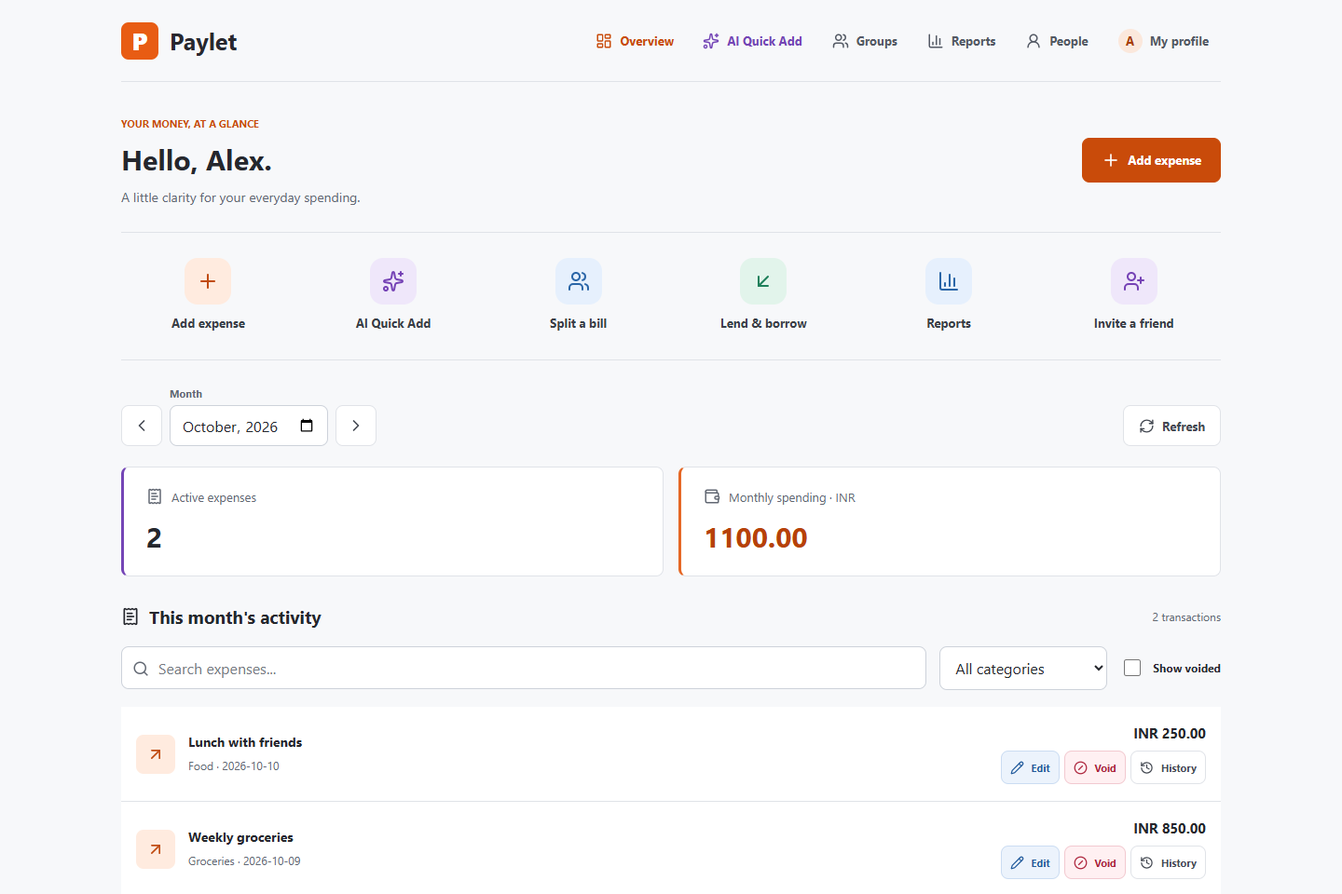
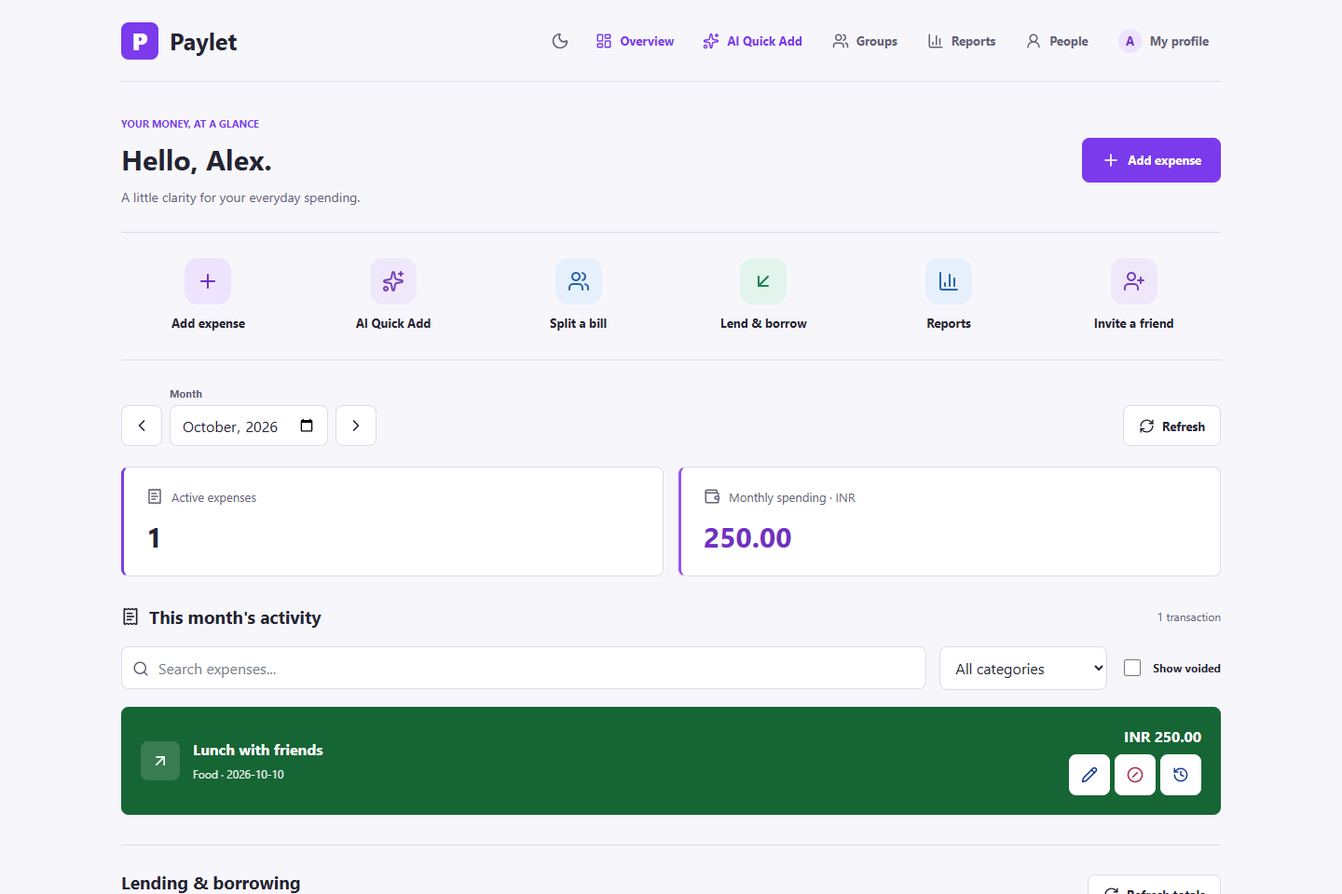
Redesign landing page with interactive split demo and deeper dark mode

diff --git a/frontend/src/components/landing-redesign.css b/frontend/src/components/landing-redesign.css
@@ -1,0 +1,149 @@
+.landing-page { --landing-accent: #b894ff; --landing-band: #18171e; --landing-card: #211f29; --landing-muted: #b9b5c7; --landing-border: #37323f; }
+.landing-page .landing-header { background: #101012f5; backdrop-filter: blur(16px); }
+.landing-page .landing-header-inner { min-height: 80px; }
+.landing-page .landing-nav a, .landing-page .landing-footer nav a { text-underline-offset: 7px; transition: color 180ms ease; }
+.landing-page .landing-nav a:hover, .landing-page .landing-footer nav a:hover { text-decoration: underline; color: var(--landing-accent); }
+.landing-page .landing-hero { border-bottom: 1px solid #6d4698; }
+.landing-page .landing-hero::before { background: #09080dcc; box-shadow: inset 0 -70px 90px #09080d88; }
+.landing-page .landing-hero h1 { font-weight: 800; }
+.landing-page .landing-hero .landing-hook { font-weight: 600; }
+.landing-page .landing-hero-copy > .landing-eyebrow { padding: 8px 0; border-bottom: 1px solid #b894ff66; }
+.landing-page .landing-community-count { color: #f2eaff; }
+.landing-page .landing-band, .landing-page .landing-showcase, .landing-page .landing-privacy, .landing-page .landing-final-cta { border-bottom: 1px solid var(--landing-border); scroll-margin-top: 100px; }
+.landing-page .landing-feature-band { background: #101012; }
+.landing-page .landing-about { padding-block: 32px 80px; }
+.landing-page .landing-demo-heading { display: flex; justify-content: space-between; flex-wrap: wrap; gap: 12px; color: var(--landing-muted); font-size: 12px; margin-bottom: 20px; }
+.landing-demo-heading > span:first-child { display: inline-flex; align-items: center; gap: 8px; color: var(--landing-accent); font-weight: 600; }
+.landing-live-dot { width: 6px; height: 6px; background: #79d5a4; border-radius: 50%; }
+.landing-money-grid { display: grid; grid-template-columns: repeat(3, minmax(0, 1fr)); gap: 20px; margin-bottom: 80px; }
+.landing-money-card { min-width: 0; border: 1px solid var(--landing-border); border-radius: 8px; background: var(--landing-card); padding: 24px; display: flex; flex-direction: column; color: #f7f5fb; }
+.landing-money-label { display: flex; align-items: center; gap: 10px; font-size: 13px; color: #cec3e5; }
+.landing-money-label > svg:last-child:not(:first-child) { margin-left: auto; }
+.landing-money-card h3 { font-size: 19px; margin: 18px 0 0; }
+.landing-demo-amount { font-size: 32px; font-weight: 750; margin: 20px 0; line-height: 1.3; }
+.landing-demo-amount > span { display: block; font-size: 12px; font-weight: 400; margin-top: 6px; color: #b9b5c7; }
+.landing-demo-bars { display: flex; align-items: flex-end; gap: 8px; height: 54px; margin-bottom: 20px; }
+.landing-demo-bars > span { flex: 1; background: #9c74ef; border-radius: 3px 3px 0 0; }
+.landing-demo-bars > span:nth-child(3n) { background: #648fe7; }
+.landing-money-foot { display: flex; align-items: center; gap: 7px; margin-top: auto; padding-top: 16px; border-top: 1px solid #ffffff24; font-size: 12px; color: #c4b8da; line-height: 1.6; }
+.landing-money-expense { background: #166534; border-color: #31894f; }
+.landing-money-expense :is(.landing-money-label, .landing-demo-amount > span, .landing-money-foot) { color: #e0f8e7; }
+.landing-demo-category { font-size: 10px; font-weight: 650; color: #c4eed2; margin-top: 28px; }
+.landing-money-expense h3 { margin-top: 8px; }
+.landing-demo-people { display: flex; margin-bottom: 20px; padding-left: 4px; }
+.landing-demo-people > span { width: 30px; height: 30px; display: grid; place-items: center; background: #4f3b72; color: #efe5ff; border: 2px solid var(--landing-card); border-radius: 50%; margin-left: -4px; font-size: 11px; }
+.landing-demo-people > span:nth-child(even) { background: #294b75; color: #d1e5ff; }
+.landing-page .landing-section-heading { max-width: 740px; margin-inline: auto; text-align: center; }
+.landing-page .landing-section-heading h2, .landing-page .landing-privacy h2, .landing-page .landing-faq h2, .landing-page .landing-final-cta h2 { font-size: 34px; font-weight: 650; }
+.landing-page .landing-features { gap: 24px; }
+.landing-page .landing-features article { padding: 30px; background: var(--landing-card); border: 1px solid var(--landing-border); }
+.landing-page .landing-features h3 { color: inherit; }
+.landing-page .landing-feature-number { font-size: 14px; color: var(--landing-muted); }
+.landing-page .landing-showcase { padding-block: 80px; background: var(--landing-band); border-top: 0; }
+.landing-page .landing-showcase .landing-section-heading { margin-bottom: 40px; }
+.landing-page .landing-product { max-width: 1040px; margin-inline: auto; border: 1px solid var(--landing-border); border-radius: 8px; box-shadow: 0 20px 50px #0003; }
+.landing-page .landing-privacy { padding-block: 64px; background: #121d1a; border-color: #2d463b; }
+.landing-page .landing-privacy-icon { color: #80d8a6; }
+.landing-page .landing-privacy .landing-eyebrow { color: #80d8a6; }
+.landing-page .landing-community-band { background: #101012; }
+.landing-page .testimonials-section { color: #f7f5fb; padding-block: 80px; }
+.landing-page .testimonials-heading p { color: var(--landing-muted); }
+.landing-page .testimonial-card { background: var(--landing-card); border-color: var(--landing-border); }
+.landing-page .landing-faq-band { background: var(--landing-band); }
+.landing-page .landing-faq { padding-block: 80px; }
+.landing-page .landing-questions details { border: 1px solid var(--landing-border); background: #211f29; border-radius: 8px; overflow: hidden; margin-bottom: 12px; }
+.landing-page .landing-final-cta { padding-block: 72px; background: #1d152b; }
+.landing-cta-icon { color: #b894ff; display: block; margin: 0 auto 20px; }
+.landing-page .landing-footer { border-top: 0; }
+.landing-page .button, .landing-page .landing-features article, .landing-money-card, .landing-page .testimonial-card { transition: transform 220ms ease, border-color 220ms ease, box-shadow 220ms ease, background-color 220ms ease; }
+.landing-page .button:active { transform: translateY(1px); }
+.landing-page .landing-questions summary svg { transition: transform 220ms ease; flex-shrink: 0; }
+.landing-page .theme-toggle { flex: 0 0 40px; }
+@media (hover: hover) {
+  .landing-page .landing-features article:hover, .landing-money-card:hover, .landing-page .testimonial-card:hover { transform: translateY(-4px); border-color: #a47aeb; box-shadow: 0 0 0 1px #a47aeb33, 0 12px 32px #8b5cf62b; }
+  .landing-page .button:hover:not(:disabled) { transform: translateY(-2px); box-shadow: 0 4px 20px #8b5cf64a; }
+  .landing-page .button-primary:hover:not(:disabled) { background: #6d28d9; box-shadow: 0 0 22px #a478ff66; }
+}
+.landing-entered { animation: landing-entrance 550ms ease both; }
+.landing-page .landing-interactive-hero::before { display: none; }
+.landing-page .landing-interactive-hero { height: auto; min-height: 0; background: #080808; }
+.landing-page .landing-interactive-hero .landing-hero-copy { height: auto; padding-block: 32px; }
+.landing-page .landing-interactive-hero h1 { font-size: 64px; margin-block: 12px; }
+.landing-page .landing-interactive-hero .landing-hook { font-size: 28px; margin-bottom: 12px; }
+.landing-page .landing-interactive-hero .landing-hook br { display: none; }
+.landing-page .landing-interactive-hero .landing-hero-description { margin-bottom: 18px; font-size: 15px; }
+.landing-page .landing-interactive-hero .landing-hero-benefits { margin-top: 14px; }
+.hero-split { width: min(620px, 100%); text-align: left; border: 1px solid #54416e; border-radius: 8px; padding: 20px; margin-top: 20px; background: #0d0d0d; box-shadow: 0 0 28px #8b5cf61c; color: #f3f1fa; }
+.hero-split-heading { display: flex; align-items: center; justify-content: space-between; gap: 12px; font-size: 13px; margin-bottom: 16px; }
+.hero-split-heading strong { display: inline-flex; align-items: center; gap: 8px; }
+.hero-split-heading > span { font-size: 11px; color: #b9b5c7; }
+.hero-split-fields { display: grid; grid-template-columns: minmax(0, 1fr) minmax(0, 1fr) minmax(0, 1.1fr); align-items: end; gap: 16px; }
+.hero-split-fields label { display: block; margin: 0; font-size: 11px; font-weight: 500; color: #cbc5d6; line-height: 1.5; }
+.hero-split-fields label > span { color: #b894ff; margin-left: 4px; }
+.hero-split-fields input { width: 100%; min-width: 0; height: 42px; margin-top: 6px; border: 1px solid #47414e; border-radius: 6px; background: #171717; color: #fff; padding: 8px 10px; font-size: 16px; }
+.hero-split-stepper { display: grid; grid-template-columns: 38px minmax(0, 1fr) 38px; align-items: center; height: 42px; margin-top: 6px; border: 1px solid #47414e; border-radius: 6px; background: #171717; }
+.hero-split-stepper button { width: 36px; height: 40px; display: grid; place-items: center; background: transparent; border: 0; color: #c6a2ff; padding: 0; }
+.hero-split-stepper button:disabled { opacity: .35; cursor: not-allowed; }
+.hero-split-stepper output { text-align: center; font-size: 16px; }
+.hero-split-result { min-height: 65px; display: flex; flex-direction: column; justify-content: center; border-left: 1px solid #38313e; padding-left: 16px; }
+.hero-split-result > span { font-size: 11px; color: #b9b5c7; }
+.hero-split-result strong { font-size: 23px; color: #95e4bd; overflow-wrap: anywhere; margin-top: 6px; }
+.hero-split-note { min-height: 18px; line-height: 1.5; font-size: 11px; margin: 12px 0 0; color: #b9b5c7; }
+@media (max-width: 600px) {
+  .hero-split { padding: 14px; margin-top: 12px; }
+  .hero-split-heading { margin-bottom: 10px; gap: 8px; }
+  .hero-split-heading > span { font-size: 10px; }
+  .hero-split-fields { grid-template-columns: minmax(0, 1fr) minmax(0, 1fr); gap: 10px; }
+  .hero-split-result { grid-column: 1 / -1; flex-direction: row; align-items: center; justify-content: space-between; min-height: 36px; padding: 8px 0 0; border-left: 0; border-top: 1px solid #38313e; }
+  .hero-split-result strong { margin-top: 0; font-size: 24px; }
+  .hero-split-note { margin-top: 6px; }
+  .landing-page .landing-interactive-hero .landing-hero-copy { padding-block: 22px; }
+  .landing-page .landing-interactive-hero h1 { font-size: 48px; }
+  .landing-page .landing-interactive-hero .landing-hook { font-size: 23px; }
+  .landing-page .landing-interactive-hero .landing-hero-benefits { display: none; }
+}
+@media (max-height: 700px) {
+  .landing-page .landing-interactive-hero .landing-hero-copy { padding-block: 12px; }
+  .landing-page .landing-interactive-hero h1 { font-size: 40px; margin-block: 6px; }
+  .landing-page .landing-interactive-hero .landing-hook { font-size: 20px; margin-bottom: 10px; }
+  .landing-page .landing-interactive-hero .landing-hero-description { display: none; }
+  .landing-page .landing-interactive-hero .landing-hero-actions .button { min-height: 40px; padding-block: 8px; font-size: 14px; }
+  .landing-page .landing-interactive-hero .hero-split { margin-top: 8px; padding: 12px; }
+}
+@keyframes landing-entrance { from { opacity: .5; transform: translateY(12px); } to { opacity: 1; transform: none; } }
+[data-theme="light"] .landing-page { --landing-card: #fff; --landing-band: #eeeff6; --landing-accent: #7c3aed; }
+[data-theme="light"] .landing-page .landing-header { background: #fffffff5; }
+[data-theme="light"] .landing-page .landing-feature-band, [data-theme="light"] .landing-page .landing-community-band { background: #f9f9fc; }
+[data-theme="light"] .landing-page .landing-money-card { color: #242332; }
+[data-theme="light"] .landing-page .landing-money-card:not(.landing-money-expense) :is(.landing-money-label, .landing-demo-amount > span, .landing-money-foot) { color: #636176; }
+[data-theme="light"] .landing-page .landing-money-card:not(.landing-money-expense) .landing-money-foot { border-color: #dadbe7; }
+[data-theme="light"] .landing-page .landing-money-expense { color: #fff; }
+[data-theme="light"] .landing-page .landing-privacy { background: #e9f5ee; border-color: #c6dfcf; }
+[data-theme="light"] .landing-page .landing-privacy :is(.landing-eyebrow, .landing-privacy-icon) { color: #22643e; }
+[data-theme="light"] .landing-page .testimonials-section { color: #242332; }
+[data-theme="light"] .landing-page .landing-questions details { background: #fff; color: #242332; border-color: #dadbe7; }
+[data-theme="light"] .landing-page .landing-questions summary:hover { background: #f4f0fa; }
+[data-theme="light"] .landing-page .landing-final-cta { background: #eee6fa; }
+[data-theme="dark"] .landing-page { background: #000; --landing-card: #0d0d0d; --landing-band: #080808; --landing-border: #2b2b2b; }
+[data-theme="dark"] .landing-page .landing-header { background: #000000f5; }
+[data-theme="dark"] .landing-page :is(.landing-feature-band, .landing-community-band, .landing-footer, .landing-hero) { background: #000; }
+[data-theme="dark"] .landing-page .landing-hero::before { background: #000c; box-shadow: inset 0 -70px 90px #0009; }
+[data-theme="dark"] .landing-page .landing-questions details { background: var(--landing-card); }
+[data-theme="dark"] .landing-page .landing-questions summary:hover { background: #181818; }
+[data-theme="dark"] .landing-page .landing-privacy { background: #040907; }
+[data-theme="dark"] .landing-page .landing-final-cta { background: #09060e; }
+@media (max-width: 900px) { .landing-money-grid { gap: 12px; } .landing-money-card { padding: 18px; } .landing-demo-amount { font-size: 26px; } }
+@media (max-width: 760px) {
+  .landing-money-grid { grid-template-columns: minmax(0, 1fr); margin-bottom: 48px; gap: 16px; }
+  .landing-money-card { padding: 24px; }
+  .landing-page .landing-about { padding-block: 24px 48px; }
+  .landing-page :is(.landing-showcase, .testimonials-section, .landing-faq, .landing-final-cta) { padding-block: 48px; }
+  .landing-page .landing-privacy { padding-block: 40px; }
+  .landing-page .landing-section-heading h2, .landing-page .landing-privacy h2, .landing-page .landing-faq h2, .landing-page .landing-final-cta h2 { font-size: 27px; }
+  .landing-page .landing-band { scroll-margin-top: 148px; }
+  .landing-page .landing-demo-heading { font-size: 11px; }
+}
+@media (prefers-reduced-motion: reduce) {
+  .landing-page *, .landing-page *::before, .landing-page *::after { animation: none !important; transition: none !important; scroll-behavior: auto !important; }
+  .landing-page .button:hover, .landing-page article:hover { transform: none !important; }
+}

diff --git a/frontend/src/components/LandingPage.tsx b/frontend/src/components/LandingPage.tsx
@@ -1,9 +1,11 @@
-import { ArrowDownLeft, ArrowRight, BarChart3, Check, ChevronRight, LayoutDashboard, LogIn, LogOut, Plus, ReceiptText, ShieldCheck, Users, Wallet } from "lucide-react";
+import { useEffect, useRef } from "react";
+import { ArrowDownLeft, ArrowRight, BarChart3, Check, ChevronRight, LayoutDashboard, LogIn, LogOut, Plus, ReceiptText, ShieldCheck, Users, Wallet, TrendingUp, CheckCircle2 } from "lucide-react";
 import type { User } from "../lib/api";
 import "./landing.css";
 import ThemeToggle from "./ThemeToggle";
 import Testimonials from "./Testimonials";
 import CommunityCount from "./CommunityCount";
+import HeroSplitDemo from "./HeroSplitDemo";
 
 type Props = {
   user: User | null;
@@ -16,7 +18,18 @@ type Props = {
 };
 
 export default function LandingPage({ user, checking, sessionError, onLogin, onRegister, onDashboard, onLogout }: Props) {
-  return <div className="landing-page">
+  const pageRef = useRef<HTMLDivElement>(null);
+  useEffect(() => {
+    if (!window.IntersectionObserver) return;
+    const observer = new IntersectionObserver((entries) => {
+      for (const entry of entries) if (entry.isIntersecting) {
+        entry.target.classList.add("landing-entered"); observer.unobserve(entry.target);
+      }
+    }, { threshold: 0.08 });
+    pageRef.current?.querySelectorAll(".landing-band, .landing-showcase, .landing-privacy, .landing-final-cta").forEach((section) => observer.observe(section));
+    return () => observer.disconnect();
+  }, []);
+  return <div className="landing-page" ref={pageRef}>
     <a className="landing-skip" href="#landing-main">Skip to content</a>
     <header className="landing-header"><div className="landing-header-inner landing-width">
       <a className="brand" href="/" aria-label="Paylet home"><span className="brand-mark">P</span><span>Paylet</span></a>
@@ -28,37 +41,43 @@ export default function LandingPage({ user, checking, sessionError, onLogin, onR
     </div></header>
     {sessionError && <div className="landing-width landing-session" role="alert">{sessionError} <button className="button button-outline" onClick={() => window.location.reload()}>Retry</button></div>}
     <main id="landing-main">
-      <section className="landing-hero" aria-labelledby="landing-title">
-        <img className="landing-hero-image" src="/paylet-cinematic-hero.png" width="1672" height="941" alt="" fetchPriority="high" />
+      <section className="landing-hero landing-interactive-hero" aria-labelledby="landing-title">
         <div className="landing-hero-copy landing-width">
           <span className="landing-eyebrow">YOUR MONEY. YOUR PEOPLE. YOUR LIFE.</span>
           <h1 id="landing-title">Paylet<span>.</span></h1>
-          <p className="landing-hook">Less money stress.<br />More life.</p>
+          <p className="landing-hook">Less money stress. More life.</p>
           <p className="landing-hero-description">Track your spending. Split the bill.<br className="landing-desktop-break" /> Keep money between friends clear.</p>
           <div className="landing-hero-actions"><button className="button button-primary" disabled={checking} onClick={user ? onDashboard : onRegister}>{user ? "Open dashboard" : "Get started"}<ArrowRight size={18} /></button><a href="#about">Explore Paylet <ChevronRight size={17} /></a></div>
           <div className="landing-hero-benefits"><span><Check size={15} /> No bank connection</span><span><Check size={15} /> Your records stay private</span></div>
           <CommunityCount />
+          <HeroSplitDemo />
         </div>
       </section>
-      <section id="about" className="landing-about landing-width">
+      <div className="landing-band landing-feature-band" id="about"><section className="landing-about landing-width">
+        <div className="landing-demo-heading"><span><span className="landing-live-dot" /> A little clarity. At a glance.</span><span>Illustrative examples</span></div>
+        <div className="landing-money-grid" aria-label="Examples of Paylet money records">
+          <article className="landing-money-card landing-money-total"><div className="landing-money-label"><Wallet size={20} /><span>Your month, together</span></div><p className="landing-demo-amount">INR 4,850<span>Recorded spending</span></p><div className="landing-demo-bars" aria-hidden="true">{[32, 52, 38, 72, 58, 90, 65, 80, 46, 96, 68, 84].map((height, index) => <span key={index} style={{ height: `${height}%` }} />)}</div><div className="landing-money-foot"><BarChart3 size={15} /> Everyday expenses. One clear picture.</div></article>
+          <article className="landing-money-card landing-money-expense"><div className="landing-money-label"><ReceiptText size={20} /><span>Every little expense</span><CheckCircle2 size={18} /></div><span className="landing-demo-category">FOOD & FRIENDS</span><h3>Lunch after lectures</h3><p className="landing-demo-amount">INR 250<span>Personal expense</span></p><div className="landing-money-foot"><Check size={16} /> Recorded. Remembered. Sorted.</div></article>
+          <article className="landing-money-card landing-money-group"><div className="landing-money-label"><Users size={20} /><span>Better, together</span></div><h3>The weekend plan</h3><p className="landing-demo-amount">INR 1,200<span>Shared between 4 friends</span></p><div className="landing-demo-people" aria-hidden="true"><span>A</span><span>R</span><span>S</span><span>M</span></div><div className="landing-money-foot"><TrendingUp size={16} /> INR 300 each. No guesswork.</div></article>
+        </div>
         <div className="landing-section-heading"><span className="landing-eyebrow">MADE FOR YOUR EVERYDAY</span><h2>Every plan. Every person. Every rupee.</h2><p>From your daily coffee to a weekend away, keep a record that makes sense.</p></div>
         <div className="landing-features">
           <article><div className="landing-feature-top"><span className="landing-feature-icon orange"><ReceiptText size={25} /></span><span className="landing-feature-number">01</span></div><h3>Your everyday spending</h3><p>Record expenses, organize them by category, and see your monthly totals without connecting a bank account.</p></article>
           <article><div className="landing-feature-top"><span className="landing-feature-icon purple"><Users size={25} /></span><span className="landing-feature-number">02</span></div><h3>Shared plans, clear shares</h3><p>Split group expenses equally or choose custom amounts. Include friends who have not joined Paylet yet.</p></article>
           <article><div className="landing-feature-top"><span className="landing-feature-icon green"><ArrowDownLeft size={25} /></span><span className="landing-feature-number">03</span></div><h3>Money between people</h3><p>Keep track of money lent, money borrowed, and repayments, with a separate record for each person.</p></article>
         </div>
-      </section>
+      </section></div>
       <section className="landing-showcase" aria-labelledby="landing-showcase-title"><div className="landing-width"><div className="landing-section-heading"><span className="landing-eyebrow">THE WHOLE PICTURE</span><h2 id="landing-showcase-title">Less hunting through chats.<br />More knowing where you stand.</h2><p>Expenses, monthly totals, and shared plans, together in your dashboard.</p></div><img className="landing-product" src="/paylet-preview.png" width="1440" height="960" loading="lazy" alt="Paylet dashboard with example expenses, monthly totals, and shortcuts for shared bills and lending" /></div></section>
       <section id="privacy" className="landing-privacy">
         <div className="landing-width landing-privacy-inner"><ShieldCheck size={36} className="landing-privacy-icon" /><div><span className="landing-eyebrow">SHARE ON YOUR TERMS</span><h2>Your personal records stay personal.</h2><p>Joining a group or connecting with someone does not reveal your private lending history. You choose which loan or repayment entries to share, and you can stop sharing them.</p></div><button className="button button-purple" disabled={checking} onClick={user ? onDashboard : onRegister}>{user ? "Go to dashboard" : "Create your account"}<ArrowRight size={18} /></button></div>
       </section>
-      <Testimonials user={user} checking={checking} onLogin={onLogin} />
-      <section className="landing-faq landing-width" aria-labelledby="landing-faq-title"><div><span className="landing-eyebrow">GOOD TO KNOW</span><h2 id="landing-faq-title">A little more clarity.</h2><p>Start with your own expenses. Bring your people along when you are ready.</p></div><div className="landing-questions">
+      <div className="landing-band landing-community-band"><Testimonials user={user} checking={checking} onLogin={onLogin} /></div>
+      <div className="landing-band landing-faq-band"><section className="landing-faq landing-width" aria-labelledby="landing-faq-title"><div><span className="landing-eyebrow">GOOD TO KNOW</span><h2 id="landing-faq-title">A little more clarity.</h2><p>Start with your own expenses. Bring your people along when you are ready.</p></div><div className="landing-questions">
         <details><summary>Do I need to connect my bank account?<Plus size={22} /></summary><p>No. Paylet records the expenses and money entries you add. It does not need your bank balance or banking credentials.</p></details>
         <details><summary>Can I include someone who does not use Paylet?<Plus size={22} /></summary><p>Yes. Add them to People and include them in a group split. If they join later, send a connection request using their username. They must accept before their account is connected.</p></details>
         <details><summary>Can Paylet show my monthly spending?<Plus size={22} /></summary><p>Yes. Your dashboard and reports show recorded expenses by month, with separate totals for each currency.</p></details>
-      </div></section>
-      <section className="landing-final-cta landing-width"><h2>Make room for a little clarity.</h2><p>Start with one expense. Keep going from there.</p><button className="button button-primary" disabled={checking} onClick={user ? onDashboard : onRegister}>{user ? "Your dashboard awaits" : "Get started with Paylet"}<ArrowRight size={19} /></button></section>
+      </div></section></div>
+      <section className="landing-final-cta"><div className="landing-width"><Wallet size={32} className="landing-cta-icon" /><span className="landing-eyebrow">YOUR NEXT CHAPTER STARTS HERE</span><h2>Make room for a little clarity.</h2><p>Start with one expense. Keep going from there.</p><button className="button button-primary" disabled={checking} onClick={user ? onDashboard : onRegister}>{user ? "Your dashboard awaits" : "Get started with Paylet"}<ArrowRight size={19} /></button></div></section>
     </main>
     <footer className="landing-footer"><div className="landing-width landing-footer-main"><div><a className="brand" href="/"><span className="brand-mark">P</span><span>Paylet</span></a><p>A little clarity for your everyday money.</p></div><nav aria-label="Footer navigation"><a href="#about"><Wallet size={16} /> About Paylet</a><a href="#privacy"><ShieldCheck size={16} /> Your privacy</a><button onClick={user ? onDashboard : onLogin}><BarChart3 size={16} /> {user ? "Dashboard" : "Log in"}</button></nav></div><div className="landing-width landing-footer-bottom"><span>&copy; {new Date().getFullYear()} Paylet A Raza Co.</span><span>Track thoughtfully. Share intentionally.</span></div></footer>
   </div>;

diff --git a/frontend/tests/ui.spec.ts b/frontend/tests/ui.spec.ts
@@ -313,10 +313,8 @@ for (const width of [320, 390, 1440]) {
     await outstanding.scrollIntoViewIfNeeded();
     await page.screenshot({ path: `test-results/lending-${width}.png`, fullPage: true });
     await page.goto("/");
-    const hero = page.locator(".landing-hero-image");
+    const hero = page.locator(".landing-interactive-hero");
     await expect(hero).toBeVisible();
-    await expect.poll(() => hero.evaluate((image) => (image as HTMLImageElement).naturalWidth)).toBeGreaterThan(0);
-    await hero.evaluate((image) => (image as HTMLImageElement).decode());
     const preview = page.locator(".landing-product");
     await preview.scrollIntoViewIfNeeded();
     await expect.poll(() => preview.evaluate((image) => (image as HTMLImageElement).naturalWidth)).toBeGreaterThan(0);
@@ -352,8 +350,7 @@ test("cinematic hero fits short phones and wide screens with a visible next sect
     expect(action!.y + action!.height).toBeLessThanOrEqual(hero!.y + hero!.height);
     expect((await page.locator("#about").boundingBox())!.y).toBeLessThan(height);
     expect(await page.evaluate(() => document.documentElement.scrollWidth <= innerWidth)).toBe(true);
-    await expect.poll(() => page.locator(".landing-hero-image").evaluate((image) => (image as HTMLImageElement).naturalWidth)).toBeGreaterThan(0);
-    await page.locator(".landing-hero-image").evaluate((image) => (image as HTMLImageElement).decode());
+    await expect(page.locator(".hero-split")).toBeVisible();
     await page.screenshot({ path: `test-results/cinematic-${width}-${height}.png` });
   }
 });
@@ -379,7 +376,7 @@ test("theme preference persists and expense cards keep strong colors", async ({ 
   await page.screenshot({ path: "test-results/dashboard-dark.png", fullPage: true });
   await page.getByRole("button", { name: "Add expense", exact: true }).first().click();
   await expect(page.getByRole("dialog")).toBeVisible();
-  expect(await page.getByRole("dialog").evaluate((element) => getComputedStyle(element).backgroundColor)).toBe("rgb(32, 31, 43)");
+  expect(await page.getByRole("dialog").evaluate((element) => getComputedStyle(element).backgroundColor)).toBe("rgb(10, 10, 10)");
   await page.keyboard.press("Escape");
   await page.getByRole("button", { name: "Switch to light mode" }).click();
   await page.screenshot({ path: "test-results/dashboard-purple-light.png", fullPage: true });
@@ -585,4 +582,71 @@ test("hero shows the real aggregate count and omits unavailable counts", async (
   await page.reload();
   await expect(page.getByRole("heading", { name: "Paylet.", exact: true })).toBeVisible();
   await expect(page.locator(".landing-community-count strong")).toHaveCount(0);
+});
+test("landing redesign separates sections and supports hover and reduced motion", async ({ page }) => {
+  await mockApi(page, false);
+  await page.setViewportSize({ width: 1440, height: 1000 });
+  await page.goto("/");
+  if (await page.locator("html").getAttribute("data-theme") !== "dark") await page.getByRole("button", { name: "Switch to dark mode" }).click();
+  const card = page.locator(".landing-money-card").first();
+  await card.scrollIntoViewIfNeeded();
+  await card.hover();
+  await expect.poll(() => card.evaluate((element) => getComputedStyle(element).boxShadow)).not.toBe("none");
+  const background = (selector: string) => page.locator(selector).evaluate((element) => getComputedStyle(element).backgroundColor);
+  expect(await background(".landing-feature-band")).not.toBe(await background(".landing-showcase"));
+  await page.evaluate(() => window.scrollTo(0, 0));
+  await page.screenshot({ path: "test-results/landing-redesign-dark.png", fullPage: true });
+  await page.emulateMedia({ reducedMotion: "reduce" });
+  await expect.poll(() => card.evaluate((element) => getComputedStyle(element).transitionDuration)).toBe("0s");
+  await page.getByRole("button", { name: "Switch to light mode" }).click();
+  await page.setViewportSize({ width: 390, height: 844 });
+  await card.scrollIntoViewIfNeeded();
+  expect(await page.evaluate(() => document.documentElement.scrollWidth <= innerWidth)).toBe(true);
+  await page.evaluate(() => window.scrollTo(0, 0));
+  await page.screenshot({ path: "test-results/landing-redesign-mobile.png", fullPage: true });
+});
+
+test("capture current Paylet dashboard for landing product preview", async ({ page }) => {
+  await mockApi(page);
+  await page.route("**/api/auth/me", (route) => route.fulfill({ json: { user: { ...user, displayName: "Alex", username: "alex" } } }));
+  await page.setViewportSize({ width: 1440, height: 960 });
+  await page.goto("/?view=dashboard");
+  if (await page.locator("html").getAttribute("data-theme") === "dark") await page.getByRole("button", { name: "Switch to light mode" }).click();
+  await expect(page.getByRole("heading", { name: "Lunch with friends" })).toBeVisible();
+  await page.screenshot({ path: "test-results/paylet-preview-current.png" });
+});
+test("deep black theme applies across the app without changing light mode", async ({ page }) => {
+  await mockApi(page);
+  await page.goto("/?view=dashboard");
+  if (await page.locator("html").getAttribute("data-theme") !== "dark") await page.getByRole("button", { name: "Switch to dark mode" }).click();
+  expect(await page.locator("body").evaluate((element) => getComputedStyle(element).backgroundColor)).toBe("rgb(0, 0, 0)");
+  expect(await page.locator(".summary-card").first().evaluate((element) => getComputedStyle(element).backgroundColor)).toBe("rgb(10, 10, 10)");
+  await page.getByRole("button", { name: "AI Quick Add", exact: true }).first().click();
+  expect(await page.locator(".pqa").evaluate((element) => getComputedStyle(element).backgroundColor)).toBe("rgb(0, 0, 0)");
+  await page.goto("/");
+  expect(await page.locator(".landing-page").evaluate((element) => getComputedStyle(element).backgroundColor)).toBe("rgb(0, 0, 0)");
+  await page.screenshot({ path: "test-results/landing-deep-black.png" });
+  await page.getByRole("button", { name: "Switch to light mode" }).click();
+  expect(await page.locator("body").evaluate((element) => getComputedStyle(element).backgroundColor)).toBe("rgb(247, 247, 251)");
+});
+test("hero bill demo splits every paisa locally and validates input", async ({ page }) => {
+  const writes = await mockApi(page, false);
+  await page.goto("/");
+  const demo = page.getByRole("group", { name: "Split the next bill" });
+  await expect(demo.locator(".hero-split-result strong")).toContainText("300.00");
+  await page.getByRole("button", { name: "Fewer friends" }).click();
+  await page.getByLabel("Bill amount").fill("1000");
+  await expect(demo.locator(".hero-split-result strong")).toContainText("333.33");
+  await expect(demo.locator(".hero-split-note")).toContainText("333.34");
+  await page.getByLabel("Bill amount").fill("-10");
+  await expect(page.getByLabel("Bill amount")).toHaveAttribute("aria-invalid", "true");
+  await expect(demo.locator(".hero-split-result strong")).toHaveText("--");
+  await page.getByLabel("Bill amount").fill("0.01");
+  await expect(demo.locator(".hero-split-note")).toContainText("Every paisa accounted for");
+  await page.getByRole("button", { name: "Fewer friends" }).click();
+  await expect(page.getByRole("button", { name: "Fewer friends" })).toBeDisabled();
+  await page.setViewportSize({ width: 320, height: 568 });
+  await page.screenshot({ path: "test-results/hero-split-mobile.png" });
+  expect(await page.evaluate(() => document.documentElement.scrollWidth <= innerWidth)).toBe(true);
+  expect(writes).toHaveLength(0);
 });

diff --git a/frontend/src/appearance.css b/frontend/src/appearance.css
@@ -1,5 +1,5 @@
 :root { --page-bg: #f7f7fb; --surface: #fff; --surface-alt: #f0f1f7; --text: #242332; --muted: #636176; --border: #dadbe7; --purple: #7c3aed; --orange: #7c3aed; --blue-soft: #e9f0ff; --blue-text: #1e4fba; --danger-bg: #fff0f3; --danger-text: #ac253c; --success-bg: #eaf8f0; --success-text: #17683e; }
-:root[data-theme="dark"] { color-scheme: dark; --page-bg: #14131b; --surface: #201f2b; --surface-alt: #2a2938; --text: #f3f1fa; --muted: #b5b2c7; --border: #454153; --purple: #b28aff; --orange: #b28aff; --blue-soft: #1c3155; --blue-text: #a7cbff; --danger-bg: #442431; --danger-text: #ffb5c5; --success-bg: #173b30; --success-text: #95e4bd; --green: #91ddb6; --blue: #a7cbff; --yellow: #f2d18a; --red: #ffb5c5; }
+:root[data-theme="dark"] { color-scheme: dark; --page-bg: #000; --surface: #0a0a0a; --surface-alt: #141414; --text: #f3f1fa; --muted: #b5b2c7; --border: #333; --purple: #b28aff; --orange: #b28aff; --blue-soft: #101d30; --blue-text: #a7cbff; --danger-bg: #28131b; --danger-text: #ffb5c5; --success-bg: #0c241b; --success-text: #95e4bd; --green: #91ddb6; --blue: #a7cbff; --yellow: #f2d18a; --red: #ffb5c5; }
 body { color: var(--text); background: var(--page-bg); }
 .theme-toggle { display: inline-flex; align-items: center; justify-content: center; width: 40px; height: 40px; min-width: 40px; padding: 0; flex-shrink: 0; background: var(--surface); color: var(--text); border: 1px solid var(--border); border-radius: 8px; }
 .auth-brand-header, .recovery-header { display: flex; align-items: center; justify-content: space-between; gap: 16px; }
@@ -31,7 +31,7 @@ body { color: var(--text); background: var(--page-bg); }
 .home-page .expense-row .button-danger { color: #a82643; }
 .home-page .expense-row.is-void { background: var(--surface-alt); border-color: var(--border); color: var(--text); }
 .home-page .expense-row.is-void h3, .home-page .expense-row.is-void p, .home-page .expense-row.is-void strong { color: var(--muted); }
-[data-theme="dark"] .intro-panel { background: #221b31; }
+[data-theme="dark"] .intro-panel { background: #050505; }
 [data-theme="dark"] .mode-switch, [data-theme="dark"] .status-box { background: var(--surface-alt); }
 [data-theme="dark"] .button-purple, [data-theme="dark"] .action-symbol.purple { color: #e4d3ff; background: #493169; }
 [data-theme="dark"] .blue, [data-theme="dark"] .icon-blue { background: #243a5a; color: #acd0ff; }

diff --git a/frontend/src/components/HeroSplitDemo.tsx b/frontend/src/components/HeroSplitDemo.tsx
@@ -1,0 +1,22 @@
+import { useState } from "react";
+import { Minus, Plus, ReceiptText, Users } from "lucide-react";
+
+const money = (minor: number) => new Intl.NumberFormat("en-IN", { style: "currency", currency: "INR" }).format(minor / 100);
+
+export default function HeroSplitDemo() {
+  const [amount, setAmount] = useState("1200");
+  const [people, setPeople] = useState(4);
+  const valid = /^\d{1,7}(?:\.\d{1,2})?$/.test(amount) && Number(amount) > 0;
+  const [whole = "0", fraction = ""] = amount.split(".");
+  const minor = valid ? Number(whole) * 100 + Number(fraction.padEnd(2, "0")) : 0;
+  const share = Math.floor(minor / people);
+  const remainder = minor % people;
+  return <div className="hero-split" role="group" aria-labelledby="hero-split-title">
+    <div className="hero-split-heading"><strong id="hero-split-title"><ReceiptText size={16} /> Split the next bill</strong><span>Try it. Nothing is saved.</span></div>
+    <div className="hero-split-fields"><label htmlFor="hero-bill">Bill amount <span>INR</span><input id="hero-bill" inputMode="decimal" value={amount} maxLength={10} onChange={(event) => setAmount(event.target.value)} aria-invalid={!valid} aria-describedby={!valid ? "hero-split-error" : undefined} /></label>
+      <div><label htmlFor="hero-friends"><Users size={13} /> Friends, including you</label><div className="hero-split-stepper"><button type="button" title="Fewer friends" aria-label="Fewer friends" disabled={people <= 2} onClick={() => setPeople((value) => value - 1)}><Minus size={17} /></button><output id="hero-friends" aria-live="polite">{people}</output><button type="button" title="More friends" aria-label="More friends" disabled={people >= 12} onClick={() => setPeople((value) => value + 1)}><Plus size={17} /></button></div></div>
+      <div className="hero-split-result" aria-live="polite" aria-atomic="true"><span>Each person's share</span><strong>{valid ? money(share) : "--"}</strong></div>
+    </div>
+    <p className="hero-split-note" id={!valid ? "hero-split-error" : undefined}>{!valid ? "Enter an amount from INR 0.01 to 99,99,999.99 (up to 2 decimals)." : remainder ? `${remainder} ${remainder === 1 ? "person pays" : "people pay"} ${money(share + 1)}; ${people - remainder} ${people - remainder === 1 ? "pays" : "pay"} ${money(share)}. Every paisa accounted for.` : "Equal shares. No awkward calculations."}</p>
+  </div>;
+}

diff --git a/frontend/src/main.tsx b/frontend/src/main.tsx
@@ -4,6 +4,7 @@ import './index.css'
 import App from './App.tsx'
 import './theme.css'
 import './appearance.css'
+import './components/landing-redesign.css'
 
 createRoot(document.getElementById('root')!).render(
   <StrictMode>
